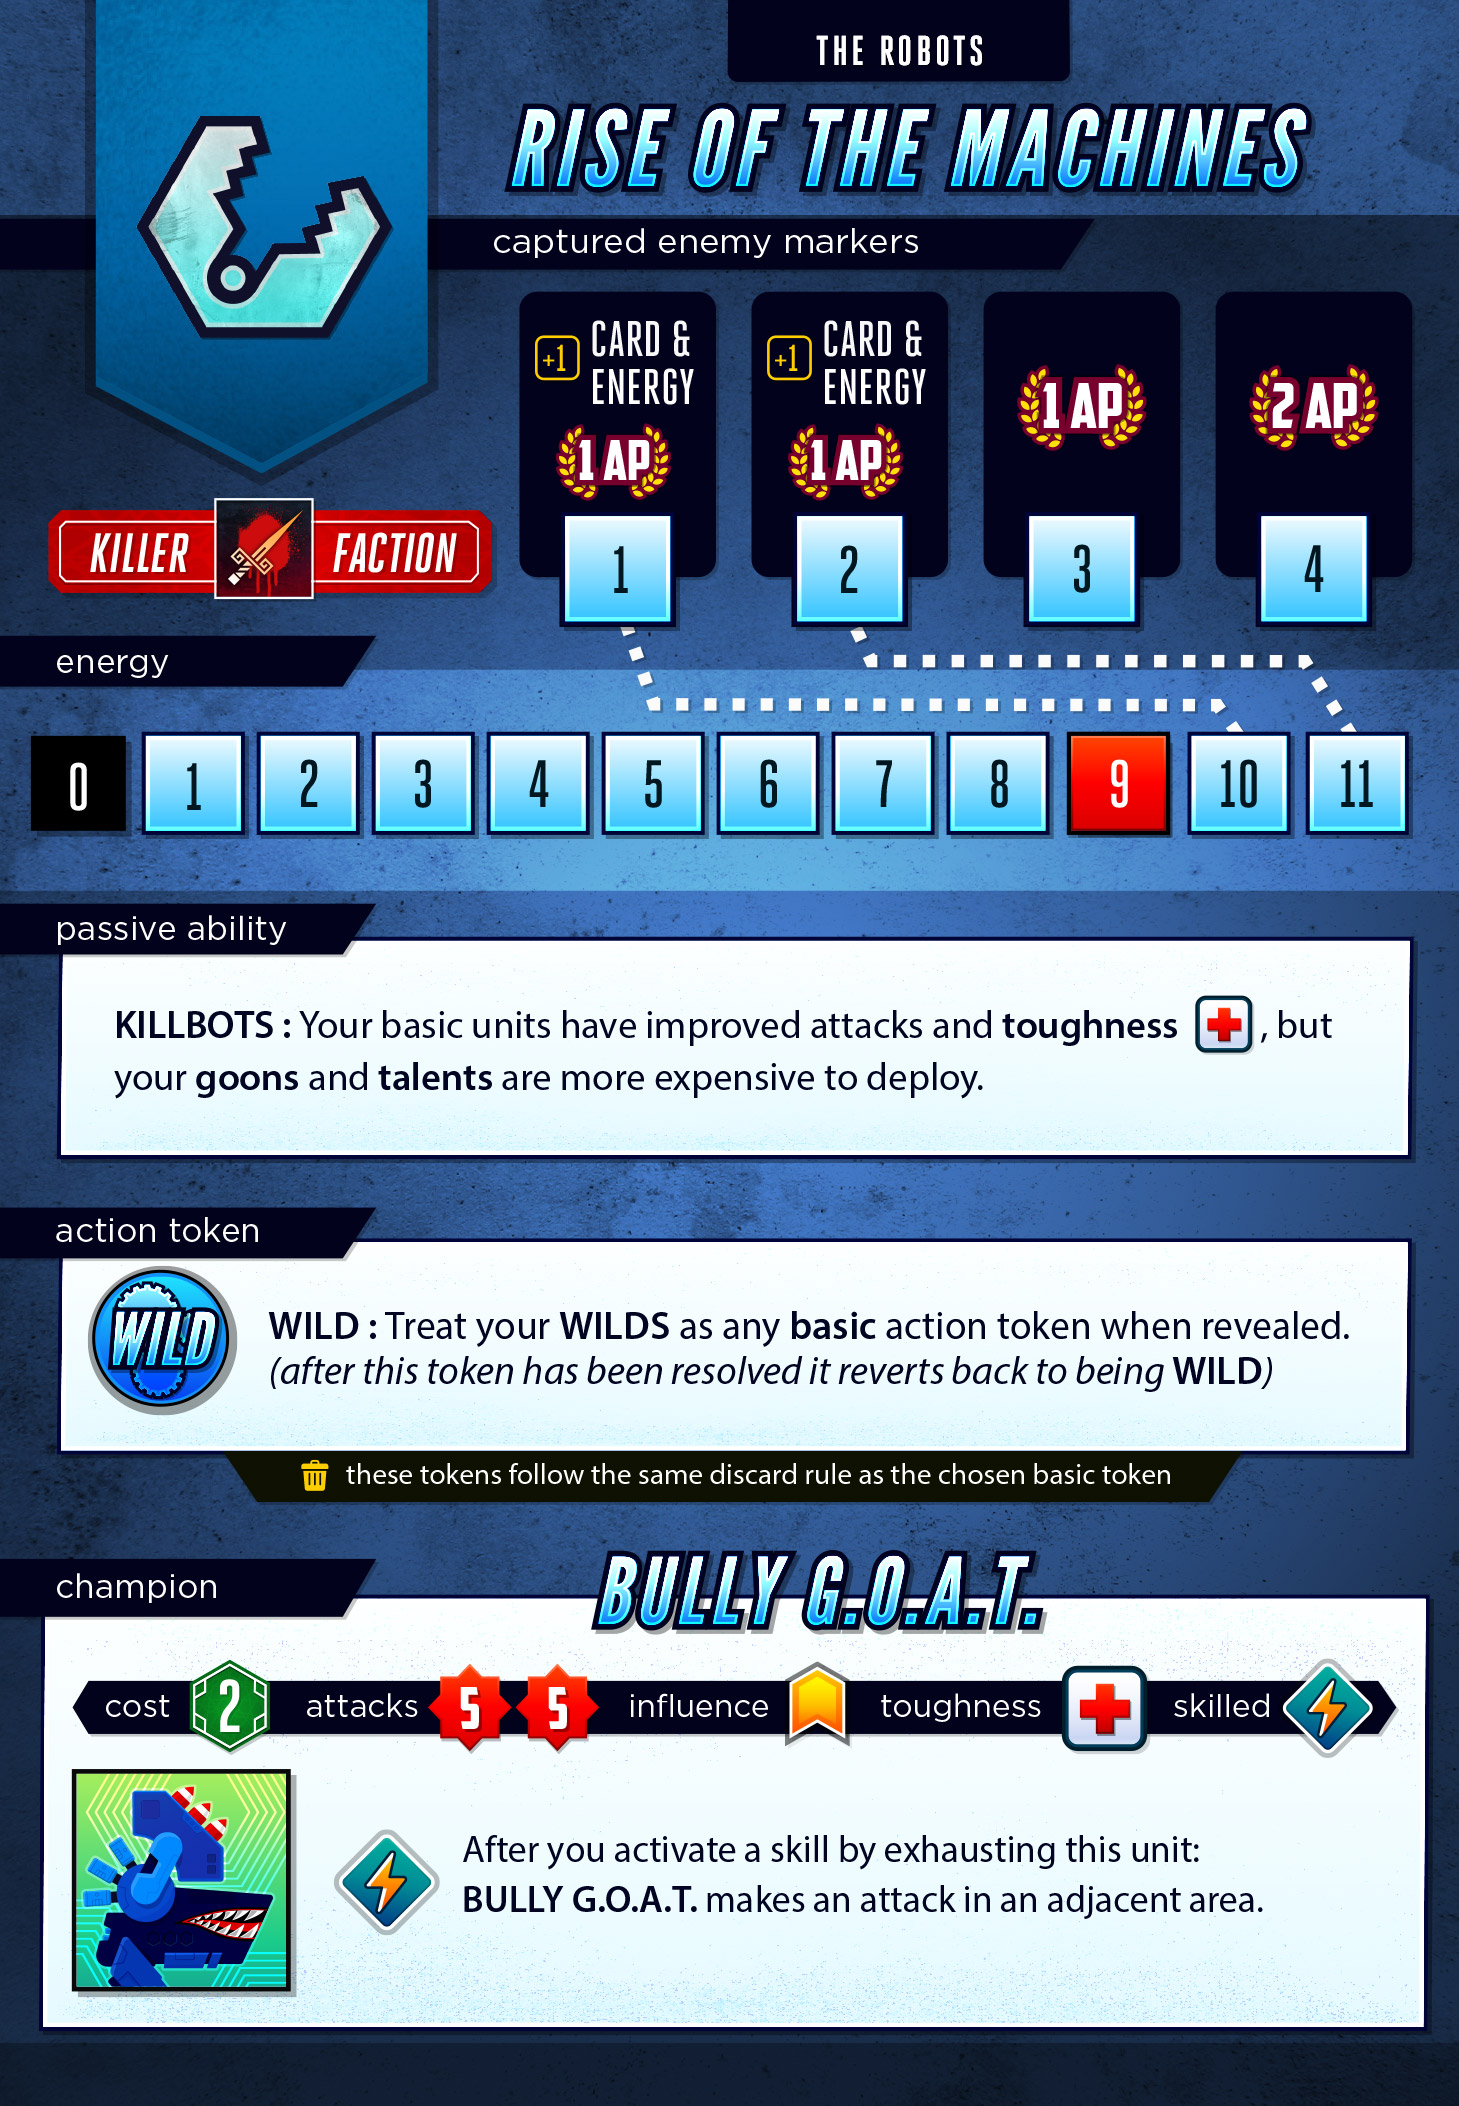
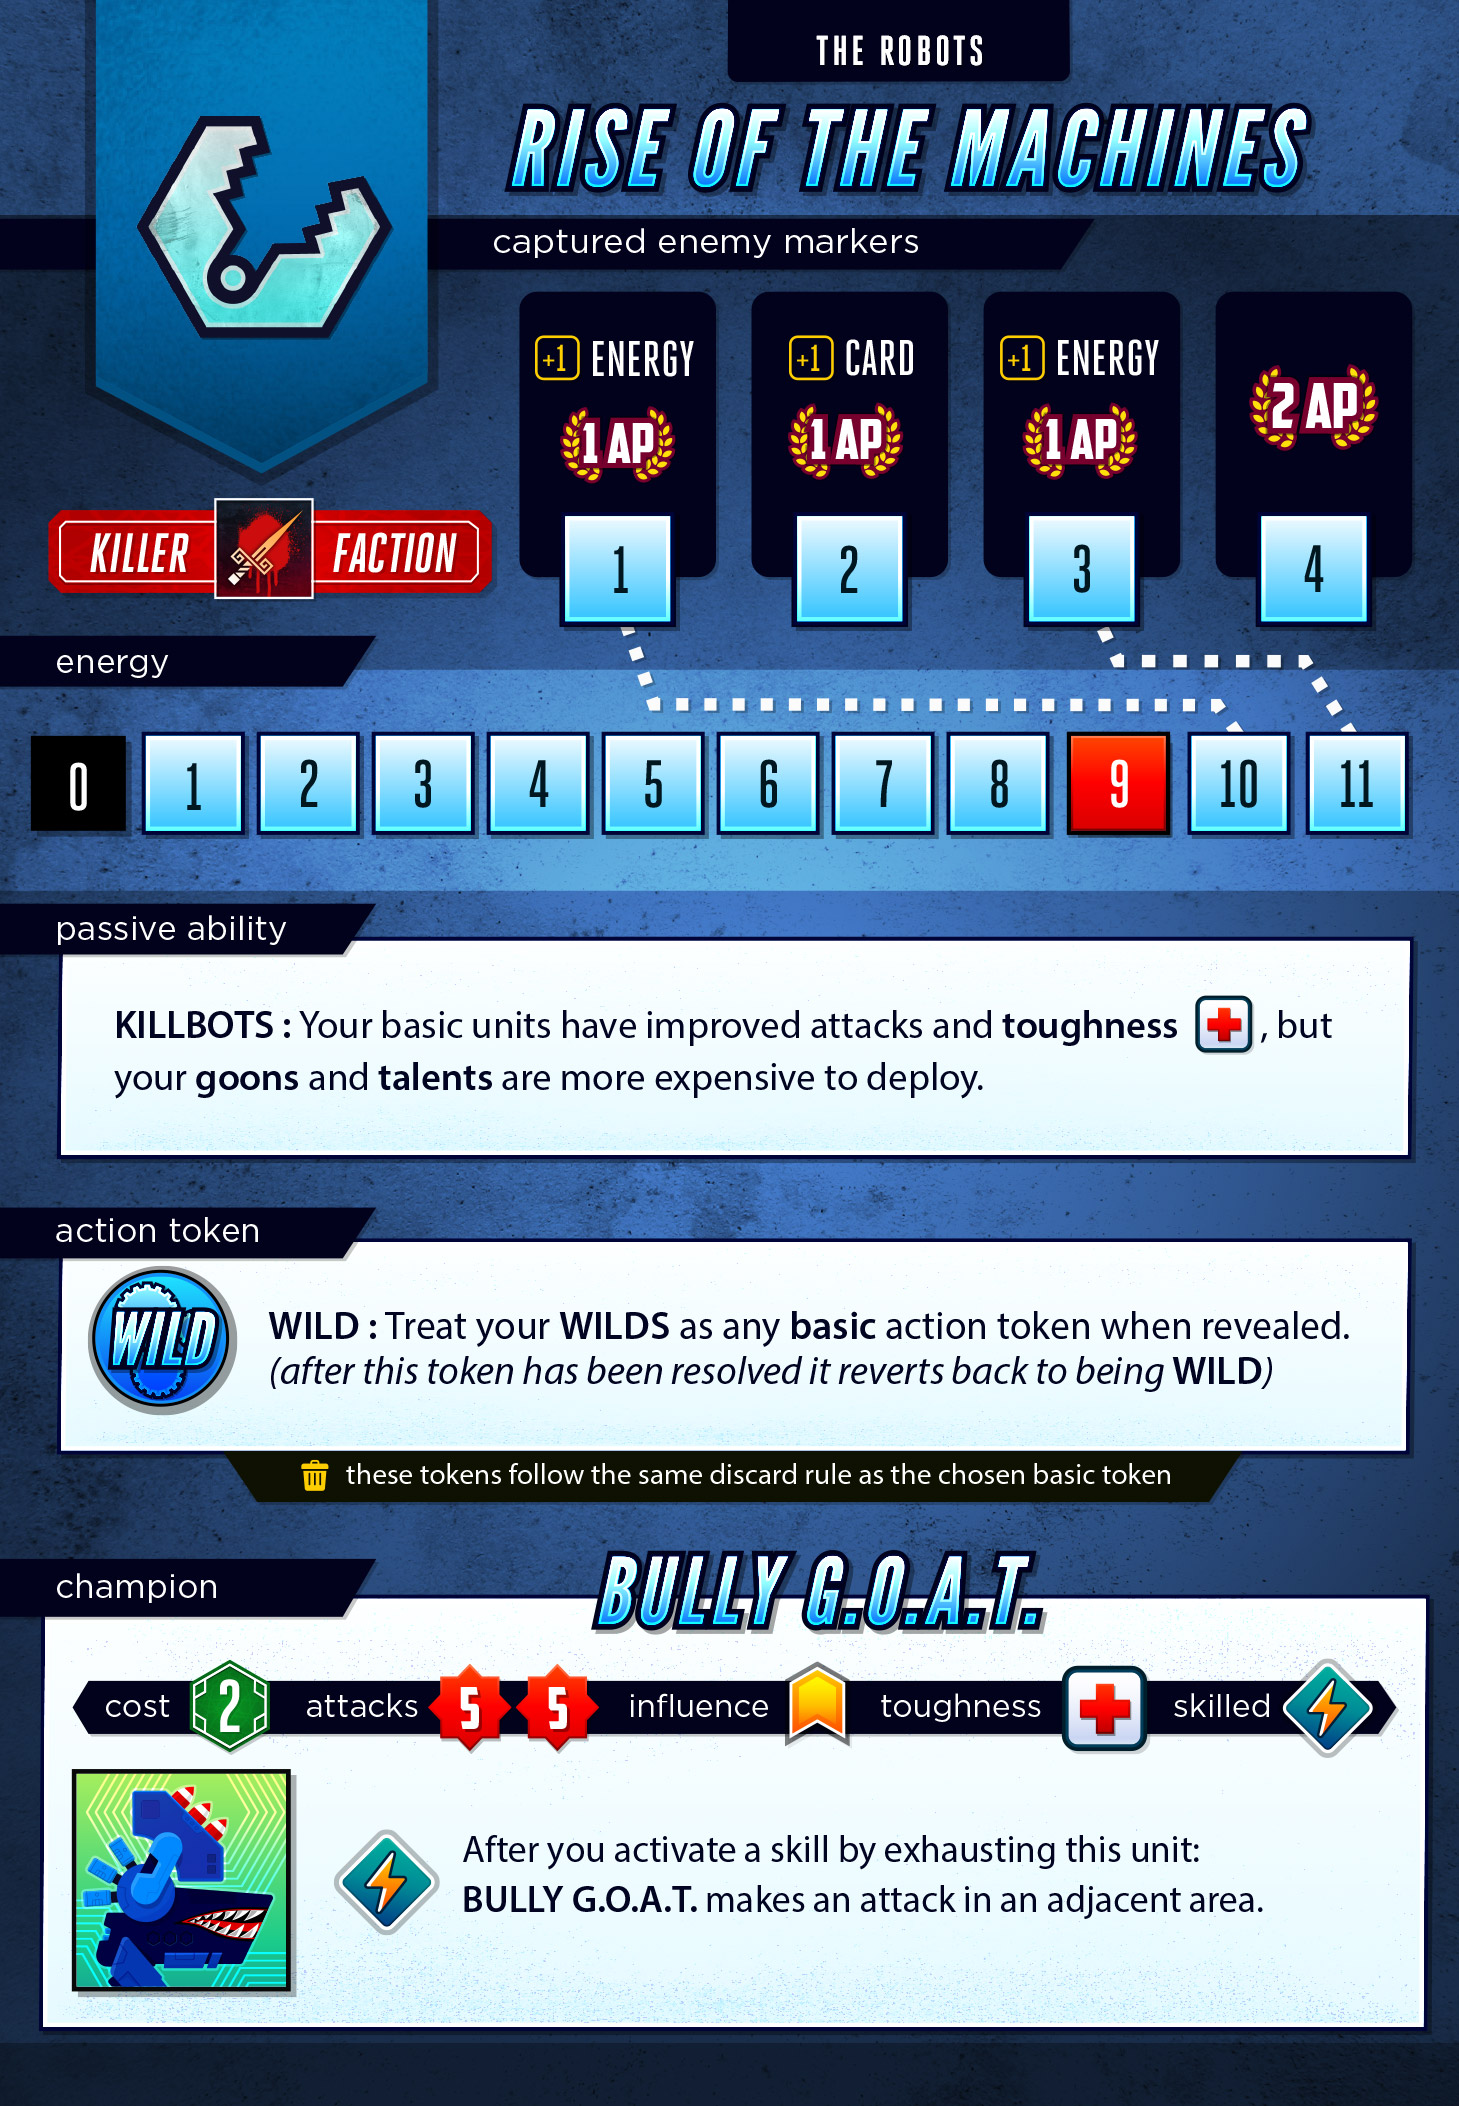
ROBOTS: Scale back robot control marker bonuses

diff --git a/server/classes/factions/Robots.js b/server/classes/factions/Robots.js
@@ -16,9 +16,9 @@ class Robots extends Faction {
         this.data.flipableUnits = ['patsy', 'goon', 'mole', 'talent', 'champion'];
 
         this.capturedRewards = [
-            { ap : 1, maxEnergy : 1, cardDraw : 1 },
-            { ap : 1, cardDraw : 1, maxEnergy : 1 },
-            { ap : 1 },
+            { ap : 1, maxEnergy : 1 },
+            { ap : 1, cardDraw : 1 },
+            { ap : 1, maxEnergy : 1 },
             { ap : 2 },
         ];
 
